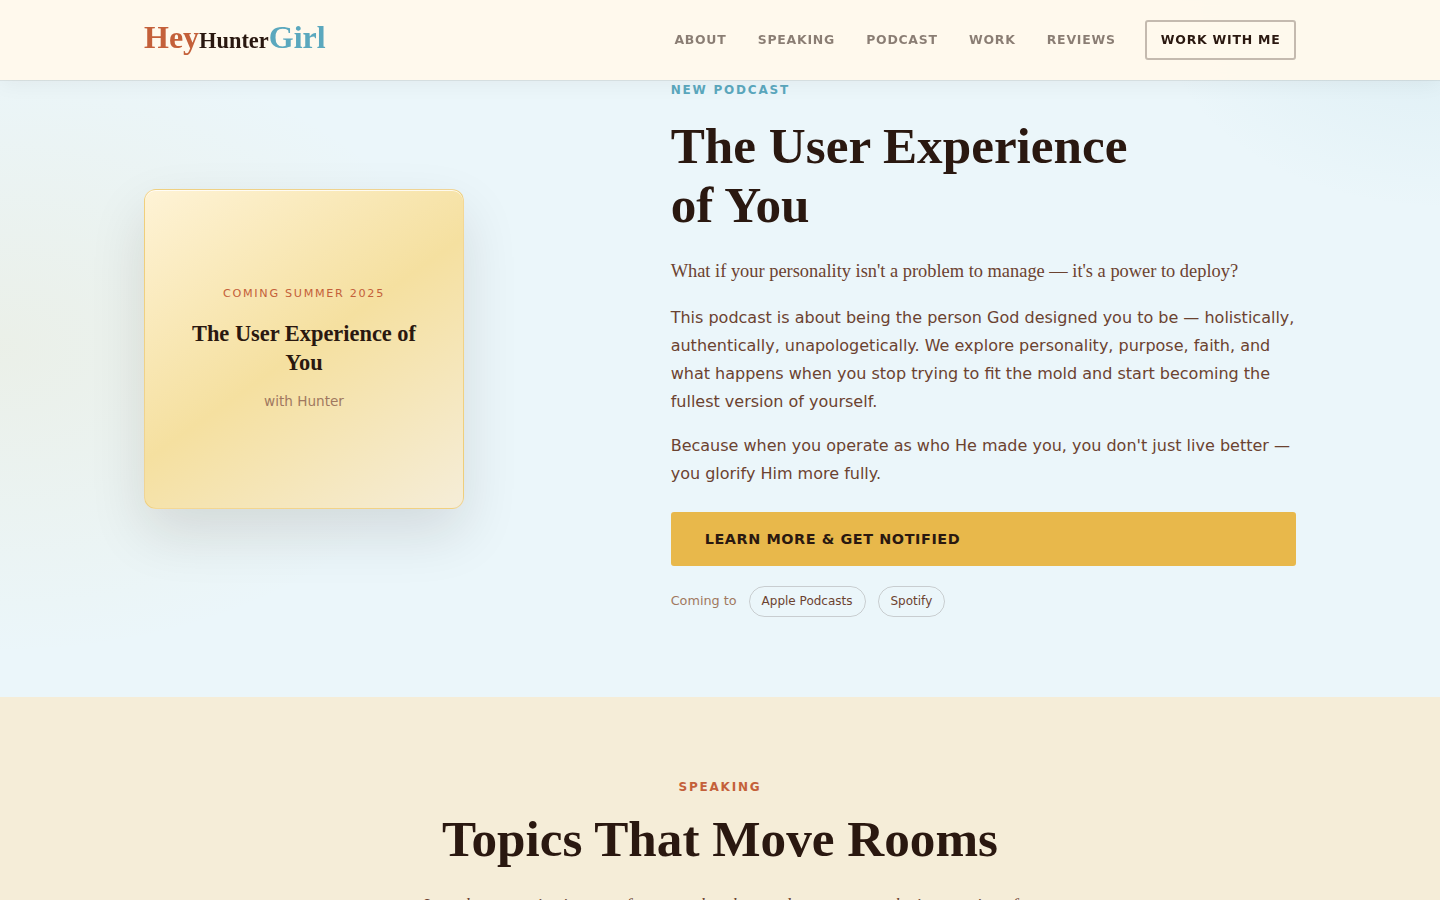
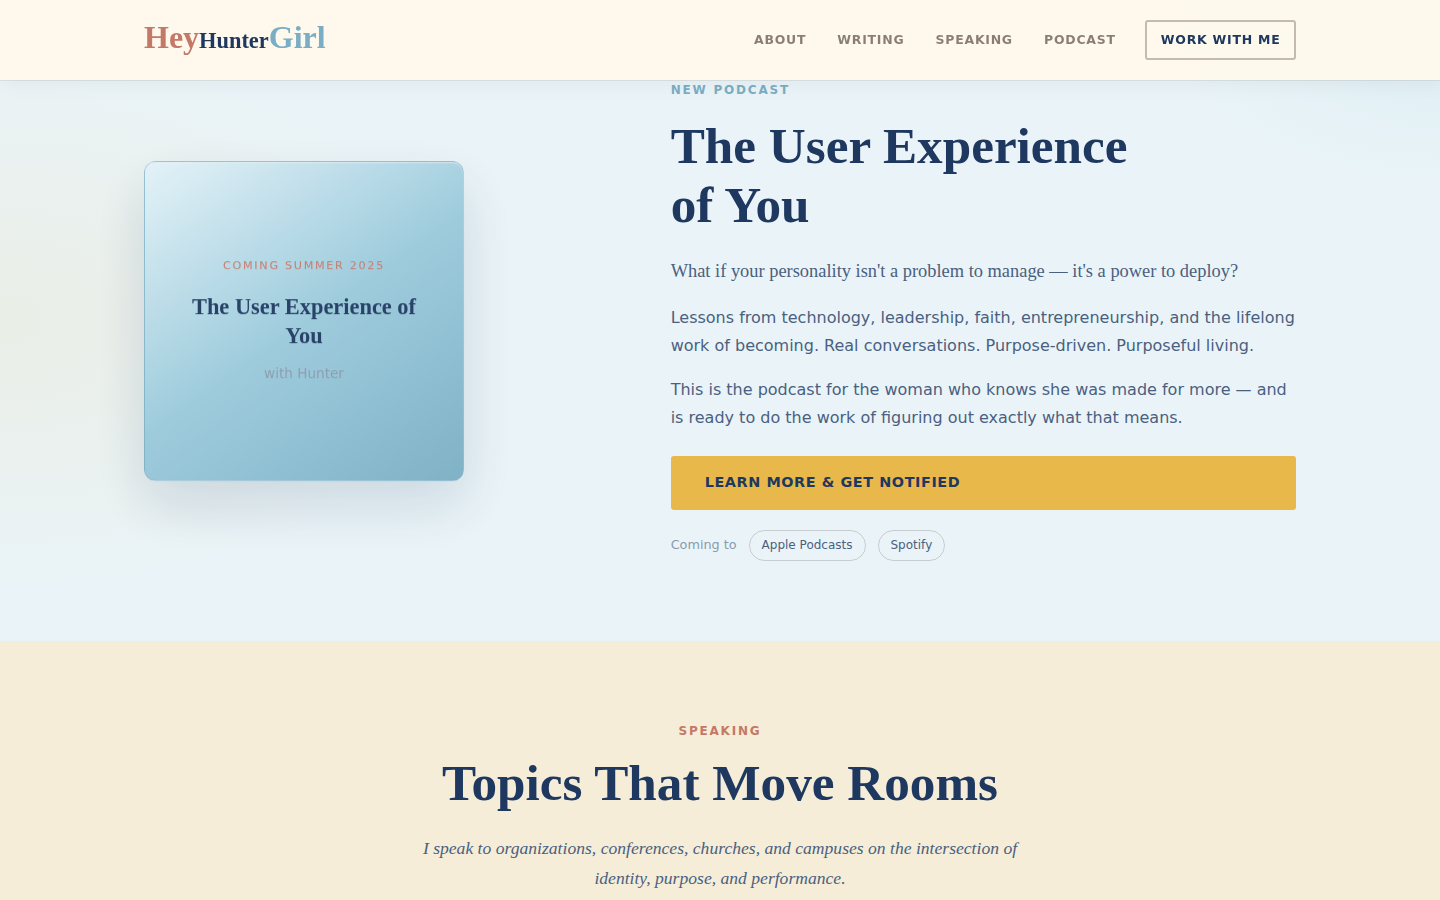
Apply brand board updates to preview.html and finalize homepage content
- preview.html: Playfair Display + DM Sans fonts, navy/dusty-blue palette,
  Old Money tagline, four pillars (Becoming/Leadership/Systems/Beauty),
  real podcast description, Stewardship·Excellence·Grace footer values,
  Writing nav link, dusty-blue podcast cover gradient
- homepage.region: Writing footer nav link, Stewardship·Excellence·Grace tagline
- Screenshots: refreshed all 8 section previews with updated brand

https://claude.ai/code/session_01GfJqTJn3bMSRqqR1jJUewL

diff --git a/preview.html b/preview.html
@@ -9,27 +9,27 @@
   <link href="https://fonts.googleapis.com/css2?family=Playfair+Display:ital,wght@0,400;0,500;0,600;0,700;1,400;1,600&family=DM+Sans:wght@300;400;500;600;700&family=Lora:ital,wght@0,400;0,600;1,400;1,600&family=Great+Vibes&display=swap" rel="stylesheet">
   <style>
 /* ==========================================================================
-   HeyHunterGirl — Martha's Vineyard Summer palette
-   Sunshine · Sky blue · Warm cream · Axon brown · Gold
+   HeyHunterGirl — Old Money · New Experiences palette
+   Navy, Dusty Blue, Warm Cream, Gold
+   Stewardship · Excellence · Grace
    ========================================================================== */
 :root {
-  /* Warm espresso — footer, deepest dark */
-  --forest:         #2A1810;
-  --forest-mid:     #3D2518;
-  --forest-light:   #5C3824;
-  --deep:           #2A1810;
-  --deep-mid:       #3D2518;
+  /* Navy — anchor dark color (footer bg, deep accents, nav) */
+  --forest:         #1E3860;
+  --forest-mid:     #2E4E78;
+  --forest-light:   #4A6A90;
+  --deep:           #1E3860;
 
-  /* Sky blue — Martha's Vineyard water */
-  --sky:            #5BA8BE;
-  --sky-mid:        #84C2D2;
-  --sky-light:      #B5DCE7;
-  --sky-pale:       #DFF0F5;
-  --sage:           #5BA8BE;
-  --sage-mid:       #84C2D2;
-  --sage-light:     #B5DCE7;
-  --sage-pale:      #DFF0F5;
-  --cream-sage:     #EBF6FA;
+  /* Dusty blue — signature accent */
+  --sky:            #7BAEC4;
+  --sky-mid:        #9BCADC;
+  --sky-light:      #BDDBE8;
+  --sky-pale:       #E4F2F8;
+  --sage:           #7BAEC4;
+  --sage-mid:       #9BCADC;
+  --sage-light:     #BDDBE8;
+  --sage-pale:      #E4F2F8;
+  --cream-sage:     #EAF4F8;
 
   /* Sunshine yellow */
   --sunshine:       #E8B84B;
@@ -41,25 +41,24 @@
   --gold-light:     #DEB96A;
   --gold-pale:      #F7EDD3;
 
-  /* Coral terracotta */
-  --terra:          #C4603A;
-  --terra-light:    #D98060;
-  --coral:          #C4603A;
+  /* Dusty rose — muted secondary warm accent */
+  --terra:          #C47868;
+  --terra-light:    #D49888;
 
   /* Warm cream — candlelight */
-  --cream:          #FFF9EC;
+  --cream:          #FFF9EF;
   --cream-dark:     #F5EDD8;
-  --cream-sky:      #EBF6FA;
+  --cream-sky:      #EAF4F8;
 
-  /* Text — warm brown */
-  --text:           #2A1810;
-  --text-mid:       #6B4230;
-  --text-light:     #A07860;
+  /* Text — navy */
+  --text:           #1E3860;
+  --text-mid:       #4A6080;
+  --text-light:     #8A9AAC;
   --white:          #FFFFFF;
 
-  --font-serif:   'Cormorant Garamond', Georgia, serif;
+  --font-serif:   'Playfair Display', Georgia, serif;
   --font-lora:    'Lora', Georgia, serif;
-  --font-sans:    'Nunito', system-ui, sans-serif;
+  --font-sans:    'DM Sans', system-ui, sans-serif;
   --font-script:  'Great Vibes', cursive;
   --max-w:        1200px;
   --nav-h:        80px;
@@ -146,7 +145,7 @@ p { line-height: 1.75; }
 .podcast-section { background: var(--cream-sky); position: relative; overflow: hidden; }
 .podcast-section::before { content: ''; position: absolute; inset: 0; background: radial-gradient(ellipse 60% 80% at 0% 50%, rgba(232,184,75,0.1) 0%, transparent 55%), radial-gradient(ellipse 40% 60% at 100% 0%, rgba(91,168,190,0.1) 0%, transparent 50%); }
 .podcast-grid { display: grid; grid-template-columns: 1fr 1.4fr; gap: 5rem; align-items: center; position: relative; z-index: 1; }
-.podcast-cover { aspect-ratio: 1; background: linear-gradient(145deg, var(--sunshine-pale) 0%, #F5E0A0 50%, var(--cream-dark) 100%); border-radius: 12px; border: 1px solid rgba(232,184,75,0.45); display: flex; align-items: center; justify-content: center; box-shadow: 0 24px 56px rgba(42,24,16,0.12), inset 0 1px 0 rgba(255,255,255,0.8); padding: 2.5rem; max-width: 320px; }
+.podcast-cover { aspect-ratio: 1; background: linear-gradient(145deg, #E4F2F8 0%, #9BCADC 50%, #7BAEC4 100%); border-radius: 12px; border: 1px solid rgba(123,174,196,0.5); display: flex; align-items: center; justify-content: center; box-shadow: 0 24px 56px rgba(30,56,96,0.15), inset 0 1px 0 rgba(255,255,255,0.6); padding: 2.5rem; max-width: 320px; }
 .podcast-cover-inner { text-align: center; color: var(--text); }
 .podcast-label { font-size: 0.7rem; letter-spacing: 0.15em; text-transform: uppercase; color: var(--terra); margin-bottom: 1rem; }
 .podcast-cover-inner h3 { font-size: 1.4rem; font-family: var(--font-serif); line-height: 1.3; margin-bottom: 0.75rem; }
@@ -200,7 +199,7 @@ p { line-height: 1.75; }
 .form-card h3 { font-size: 1.3rem; color: var(--text); margin-bottom: 1.75rem; }
 
 /* Footer */
-.site-footer { background: var(--forest); padding: 4rem 0 2rem; border-top: 2px solid var(--sunshine); }
+.site-footer { background: var(--forest); padding: 4rem 0 2rem; border-top: 1px solid rgba(123,174,196,0.2); }
 .footer-grid { display: grid; grid-template-columns: 1.5fr 1fr 1fr 1.2fr; gap: 3rem; margin-bottom: 3rem; }
 .footer-logo { font-family: var(--font-script); font-size: 2rem; font-weight: normal; color: var(--sunshine-light); display: block; margin-bottom: 0.75rem; }
 .footer-brand p { font-size: 0.9rem; color: rgba(255,249,236,0.55); line-height: 1.6; }
@@ -213,7 +212,7 @@ p { line-height: 1.75; }
 .footer-social-links a { font-size: 0.9rem; color: rgba(255,249,236,0.5); transition: color 0.2s; }
 .footer-social-links a:hover { color: var(--sky-light); }
 .footer-cta p { font-size: 0.85rem; color: rgba(255,249,236,0.5); margin-bottom: 1rem; line-height: 1.5; }
-.footer-bottom { border-top: 1px solid rgba(232,184,75,0.15); padding-top: 1.5rem; display: flex; justify-content: space-between; align-items: center; gap: 1rem; }
+.footer-bottom { border-top: 1px solid rgba(123,174,196,0.12); padding-top: 1.5rem; display: flex; justify-content: space-between; align-items: center; gap: 1rem; }
 .footer-bottom p { font-size: 0.78rem; color: rgba(255,249,236,0.28); }
 
 @media (max-width: 1024px) {
@@ -247,10 +246,9 @@ p { line-height: 1.75; }
       </button>
       <div class="nav-links" id="nav-links">
         <a href="#about">About</a>
+        <a href="#writing">Writing</a>
         <a href="#speaking-topics">Speaking</a>
         <a href="#podcast">Podcast</a>
-        <a href="#accomplishments">Work</a>
-        <a href="#testimonials">Reviews</a>
         <a href="#apply" class="nav-cta btn btn-outline">Work With Me</a>
       </div>
     </nav>
@@ -261,7 +259,7 @@ p { line-height: 1.75; }
     <div class="hero-content">
       <p class="hero-eyebrow">Speaker · Podcast Host · Builder</p>
       <h1 class="hero-name">Hey, I'm <span class="accent">Hunter.</span></h1>
-      <p class="hero-tagline">I build things — people, spaces, and possibilities — the way God designed.</p>
+      <p class="hero-tagline">Old Money · New Experiences.</p>
       <div class="hero-actions">
         <a href="#apply" class="btn btn-primary">Book Me to Speak</a>
         <a href="#podcast" class="btn btn-ghost">The User Experience of You →</a>
@@ -300,19 +298,24 @@ p { line-height: 1.75; }
         </div>
         <div class="builder-pillars">
           <div class="pillar-card">
-            <div class="pillar-icon">🎤</div>
-            <h3>Speaker</h3>
-            <p>Keynotes, panels, conferences — I bring energy, truth, and transformation to every stage.</p>
+            <div class="pillar-icon">✦</div>
+            <h3>Becoming</h3>
+            <p>Identity and purpose — discovering who you are and walking fully in it.</p>
           </div>
           <div class="pillar-card">
-            <div class="pillar-icon">🎙</div>
-            <h3>Podcast Host</h3>
-            <p>The User Experience of You — exploring how to live as the fullest version of who God made you.</p>
+            <div class="pillar-icon">⬡</div>
+            <h3>Leadership</h3>
+            <p>Leading people, building a legacy, and leaving an impact that outlasts you.</p>
           </div>
           <div class="pillar-card">
-            <div class="pillar-icon">🏗</div>
-            <h3>Builder</h3>
-            <p>Creating programs, communities, and frameworks that give people the tools to build their best life.</p>
+            <div class="pillar-icon">◈</div>
+            <h3>Systems</h3>
+            <p>Technology, processes, and organizational design — the architecture of a life that works.</p>
+          </div>
+          <div class="pillar-card">
+            <div class="pillar-icon">◇</div>
+            <h3>Beauty</h3>
+            <p>Aesthetic living and living with intention — because how you inhabit your life matters.</p>
           </div>
         </div>
       </div>
@@ -336,8 +339,8 @@ p { line-height: 1.75; }
           <p class="section-eyebrow">New Podcast</p>
           <h2 class="section-title">The User Experience<br>of You</h2>
           <p class="body-large">What if your personality isn't a problem to manage — it's a power to deploy?</p>
-          <p>This podcast is about being the person God designed you to be — holistically, authentically, unapologetically. We explore personality, purpose, faith, and what happens when you stop trying to fit the mold and start becoming the fullest version of yourself.</p>
-          <p>Because when you operate as who He made you, you don't just live better — you glorify Him more fully.</p>
+          <p>Lessons from technology, leadership, faith, entrepreneurship, and the lifelong work of becoming. Real conversations. Purpose-driven. Purposeful living.</p>
+          <p>This is the podcast for the woman who knows she was made for more — and is ready to do the work of figuring out exactly what that means.</p>
           <div class="podcast-cta-group">
             <a href="#" class="btn btn-primary">Learn More &amp; Get Notified</a>
             <div class="podcast-platforms">
@@ -505,13 +508,14 @@ p { line-height: 1.75; }
         <div class="footer-brand">
           <a href="#" class="footer-logo">HeyHunterGirl</a>
           <p>Speaker. Podcast Host. Builder.</p>
-          <p class="footer-tagline">Glorifying God by becoming<br>who He made me to be.</p>
+          <p class="footer-tagline">Stewardship · Excellence · Grace</p>
         </div>
         <div class="footer-nav">
           <h4>Navigate</h4>
           <ul>
             <li><a href="#">Home</a></li>
             <li><a href="#about">About</a></li>
+            <li><a href="#writing">Writing</a></li>
             <li><a href="#speaking-topics">Speaking</a></li>
             <li><a href="#podcast">Podcast</a></li>
             <li><a href="#apply">Work With Me</a></li>
